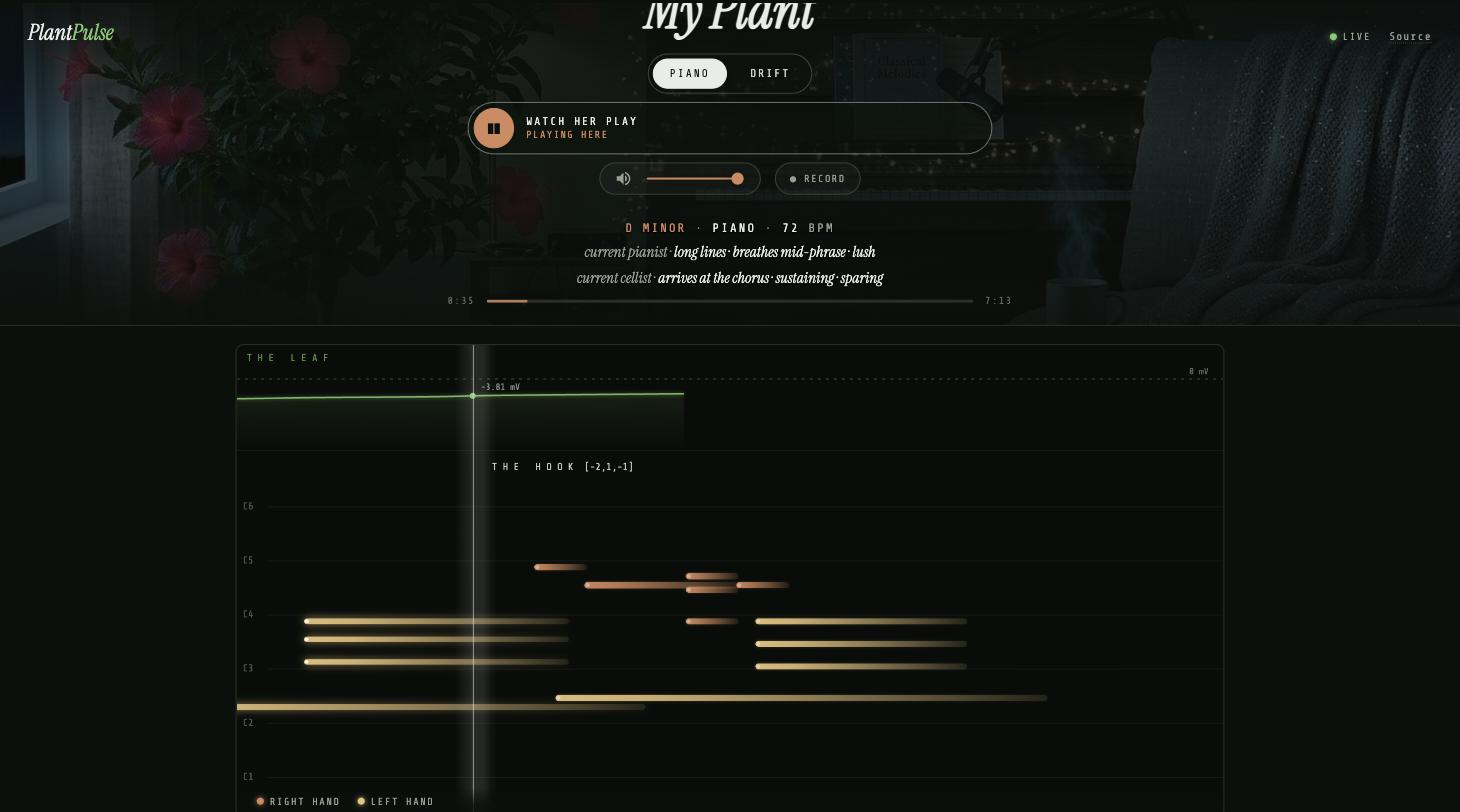
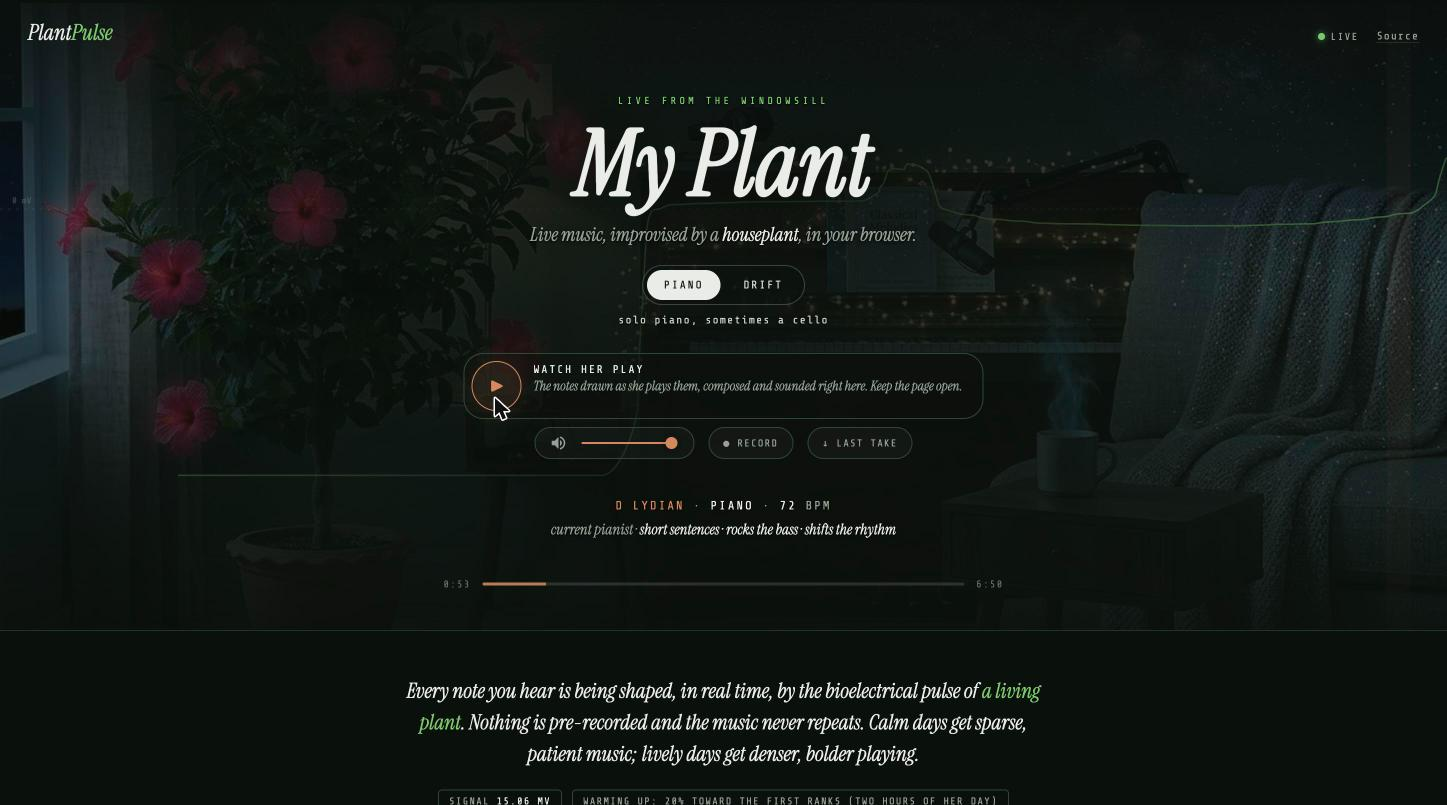
2.1.0: screenshots of the stage and the roll, the changelog entry
Two captures from Chrome on the pp2 instance (the stage before play,
the roll a minute into a piano take) replace the earlier mid-scroll
one; CHANGELOG gains [2.1.0] for the page work since 2.0.0.

Claude-Session: https://claude.ai/code/session_01REQfi3QuGTQv3mSdx7nMKU

diff --git a/CHANGELOG.md b/CHANGELOG.md
@@ -1,5 +1,15 @@
 # Changelog
 
+## [2.1.0] - 2026-09-22
+
+The live site's page.
+
+### Changed
+- The page is the live project's front page, driven by the local composer: the stage with the room's picture and the leaf's trace as the backdrop, room pills, one deck card, the now-playing line, the players' words, the track's progress, and on play the piano roll under a shrunken stage (the leaf's voltage above the notes it chose, one clock, section / hook / cello markers, the drone's knobs in drift, held voices drawn to the next chord). The 2.0 page was the classic dashboard's chrome.
+- The composer runs three seconds ahead of the audio clock so the roll shows each note arriving.
+- Chart.js is gone; three fonts (Instrument Serif, Share Tech Mono, Cookie; all OFL) are self-hosted, so the page still makes no third-party request.
+- The footer is the live site's, coffee button and all.
+
 ## [2.0.0] - 2026-09-22
 
 The composer, in your browser.
@@ -11,7 +21,7 @@ The composer, in your browser.
 - `docker compose up` works on a fresh machine: no external networks, an optional bundled broker (`--profile broker`, `tools/broker-password`), an optional fake plant (`--profile demo`, `tools/simulate-signal`), a healthcheck.
 - The server reconnects to a broker that comes up late (the old synchronous connect stayed deaf after one failure), serves the sample packs (`/api/samples/*`), spools each take's note log (`POST /api/take`), and sends no-cache for its static files so a browser never plays yesterday's engine.
 - `plantpulse.yaml` takes the broker address and username from `secrets.yaml`; the second ADS1115 is an optional block.
-- The page is the live project's front page (stage, room pills, deck, players' words, progress, and the piano roll with the leaf's trace on the same clock), driven by the local composer. No third-party requests: the two fonts are self-hosted.
+- No third-party requests from the page.
 - Tone.js is not used. The port's instruments are the live engine's SynthDefs node for node in plain Web Audio on the browser's own context. The repository's name is history.
 
 ### Removed

diff --git a/README.md b/README.md
@@ -4,7 +4,9 @@
 
 PlantPulse reads the bioelectrical signal of a living plant through two alligator clips on a leaf and turns it into music, live, in your browser. Not a voltage-to-pitch mapper: a composer that hears the plant as four signals ranked against its own day and plays from them. Two rooms, a drone and a piano. About $15 of hardware, no cloud, nothing leaves your network.
 
-![PlantPulse](docs/screenshot.jpg)
+![PlantPulse: the stage](docs/screenshot.jpg)
+
+![PlantPulse: the roll, the leaf's voltage above the notes it chose](docs/screenshot-roll.jpg)
 
 **[Listen live](https://plantpulse.hook.technology)**: a hibiscus performs around the clock. That site runs the project's SuperCollider engine; this repository is the free browser port of the same musical decisions, for your own plant. (The old Tone.js preset engine this repo once held is [release v1.0.0](https://github.com/hook-365/plantpulse-tonejs/releases/tag/v1.0.0).)
 
